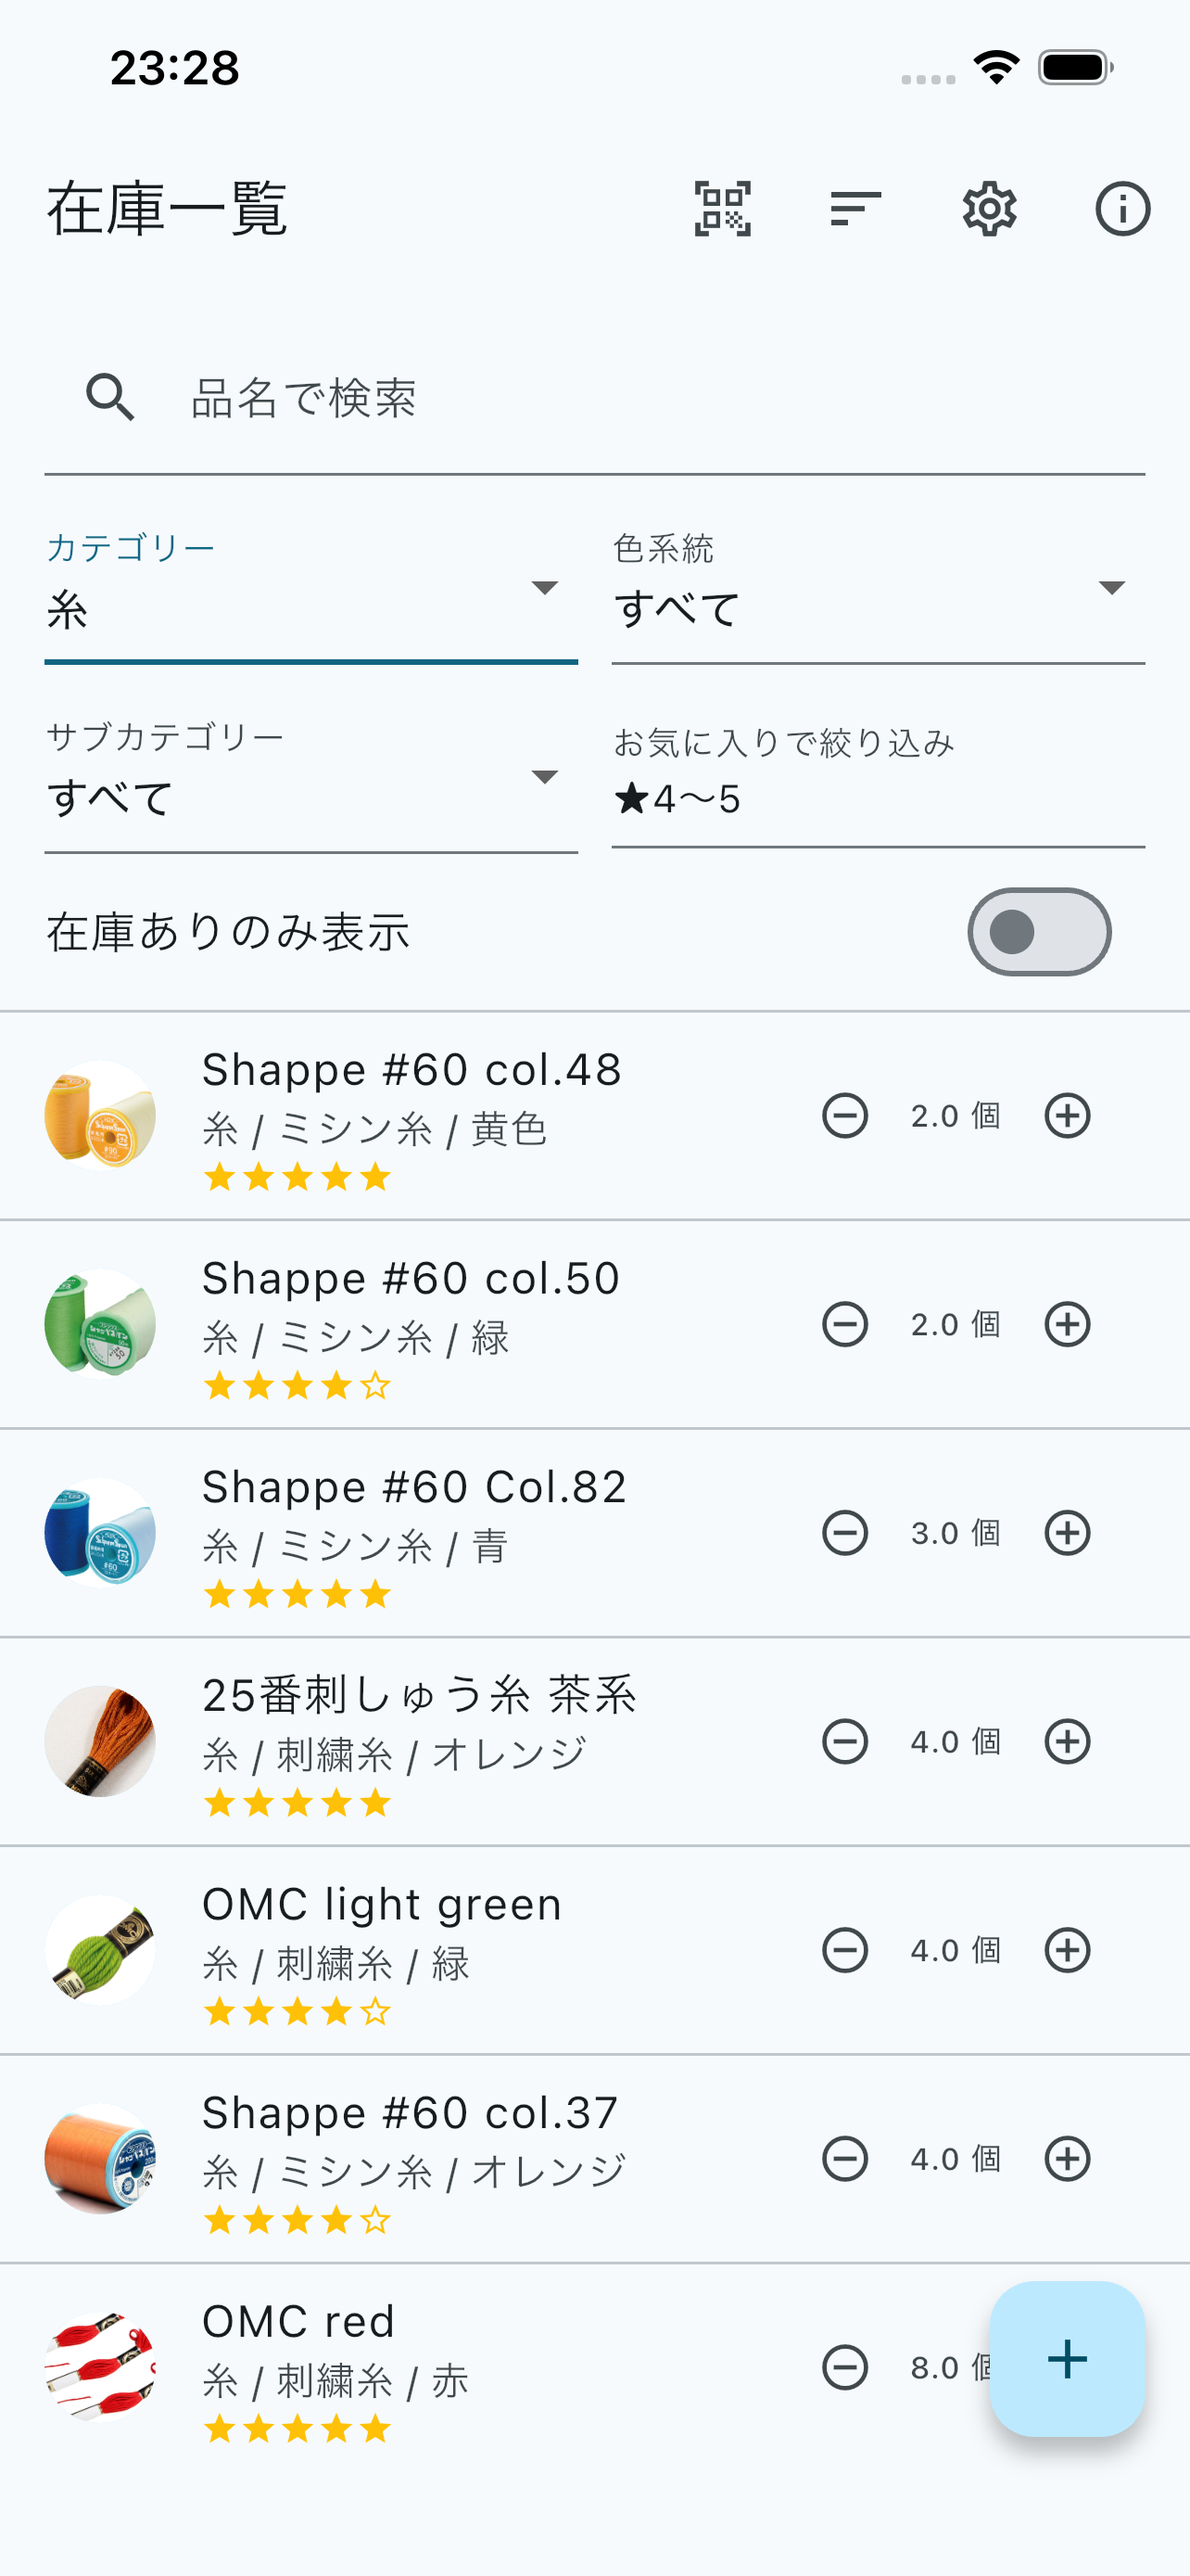
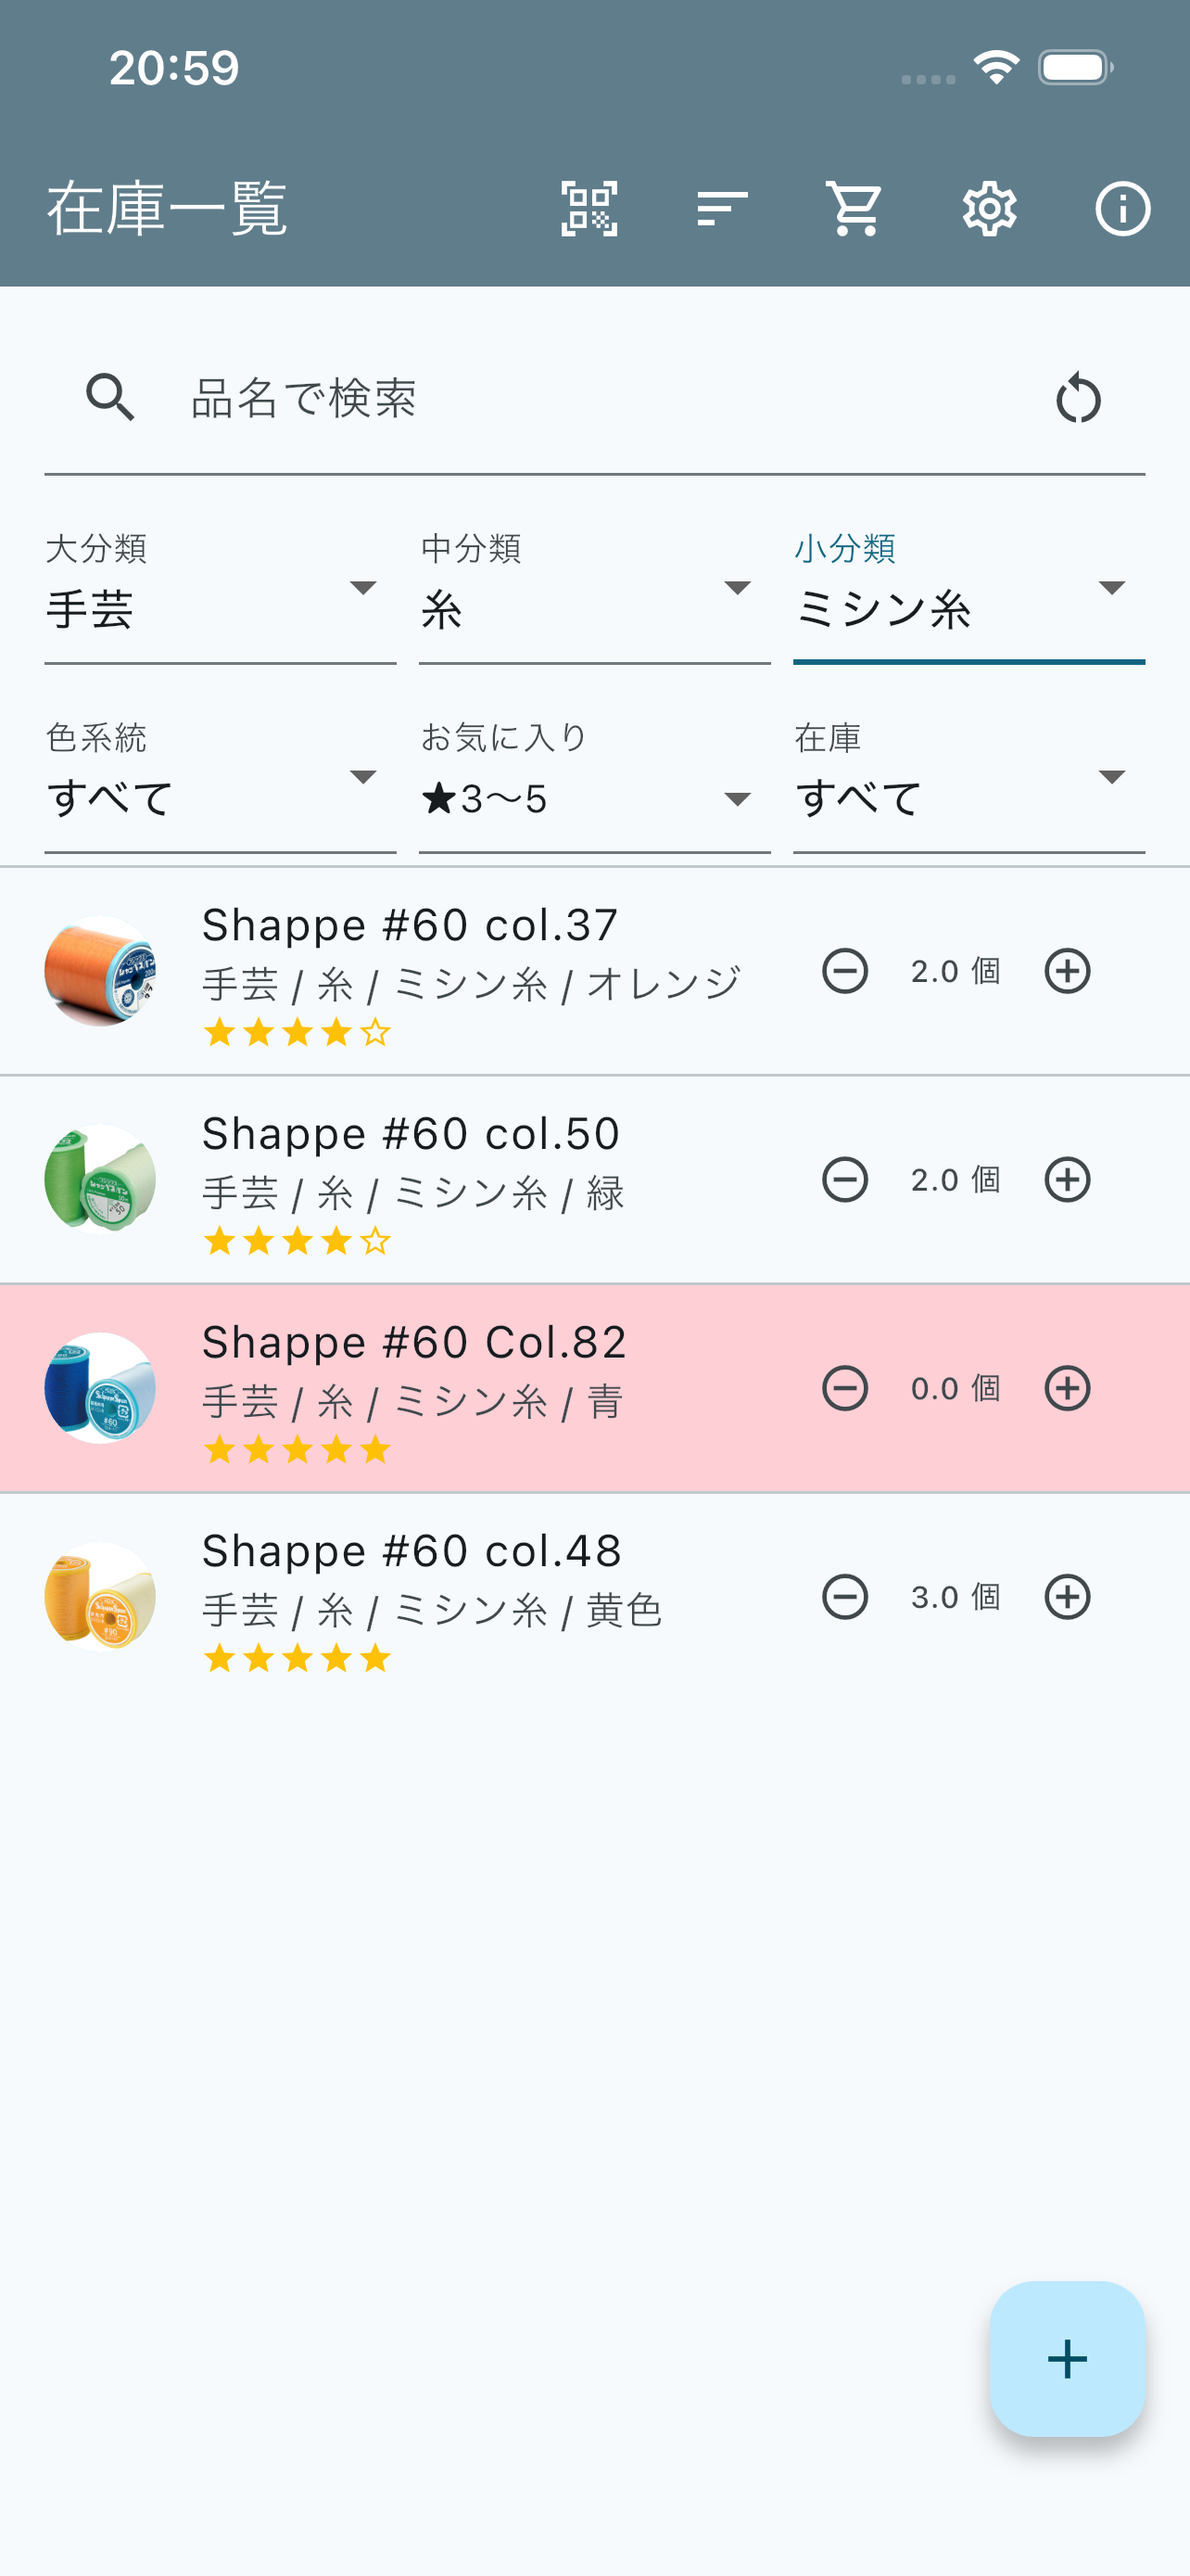
「買い物リストの任意のアイテムを左にスライドした際のアイコンを「削除」から「除外」に変更、SS更新

diff --git a/lib/features/inventory/presentation/screens/item_list_screen.dart b/lib/features/inventory/presentation/screens/item_list_screen.dart
@@ -356,18 +356,22 @@ class _ItemListScreenState extends ConsumerState<ItemListScreen> {
           const Divider(height: 1),
           Expanded(
             child: ClipRect(
-              child: itemsAsync.when(
-                data: (items) => items.isEmpty
-                    ? Center(child: Text(l10n.noMatchingItems))
-                    : ListView.separated(
-                        itemCount: items.length,
-                        separatorBuilder: (_, _) => const Divider(height: 1),
-                        itemBuilder: (context, index) =>
-                            _ItemTile(item: items[index]),
-                      ),
-                loading: () => const Center(child: CircularProgressIndicator()),
-                error: (error, stack) => Center(
-                  child: Text(l10n.errorWithMessage(error.toString())),
+              child: Material(
+                color: Colors.transparent,
+                child: itemsAsync.when(
+                  data: (items) => items.isEmpty
+                      ? Center(child: Text(l10n.noMatchingItems))
+                      : ListView.separated(
+                          itemCount: items.length,
+                          separatorBuilder: (_, _) => const Divider(height: 1),
+                          itemBuilder: (context, index) =>
+                              _ItemTile(item: items[index]),
+                        ),
+                  loading: () =>
+                      const Center(child: CircularProgressIndicator()),
+                  error: (error, stack) => Center(
+                    child: Text(l10n.errorWithMessage(error.toString())),
+                  ),
                 ),
               ),
             ),
@@ -447,16 +451,25 @@ class _ItemTile extends ConsumerWidget {
         motion: const DrawerMotion(),
         extentRatio: 0.5,
         children: [
-          SlidableAction(
-            onPressed: isInShoppingList
-                ? null
-                : (_) =>
-                      ref.read(shoppingListRepositoryProvider).addItem(item.id),
-            backgroundColor: isInShoppingList ? Colors.grey : Colors.blue,
-            foregroundColor: Colors.white,
-            icon: Icons.add_shopping_cart,
-            label: l10n.addToShoppingListLabel,
-          ),
+          if (isInShoppingList)
+            SlidableAction(
+              onPressed: (_) => ref
+                  .read(shoppingListRepositoryProvider)
+                  .removeItemByItemId(item.id),
+              backgroundColor: Colors.grey,
+              foregroundColor: Colors.white,
+              icon: Icons.remove_shopping_cart,
+              label: l10n.removeFromShoppingListLabel,
+            )
+          else
+            SlidableAction(
+              onPressed: (_) =>
+                  ref.read(shoppingListRepositoryProvider).addItem(item.id),
+              backgroundColor: Colors.blue,
+              foregroundColor: Colors.white,
+              icon: Icons.add_shopping_cart,
+              label: l10n.addToShoppingListLabel,
+            ),
           SlidableAction(
             onPressed: (_) => _confirmAndDeleteItem(context, ref, item),
             backgroundColor: Colors.red,
@@ -466,81 +479,81 @@ class _ItemTile extends ConsumerWidget {
           ),
         ],
       ),
-      child: Container(
-        color: isLowStock ? const Color(0xFFFFCFD6) : null,
-        child: ListTile(
-          leading: hasImage
-              ? CircleAvatar(backgroundImage: FileImage(imageFile))
-              : CircleAvatar(
-                  backgroundColor: swatchColor ?? Colors.grey.shade300,
-                  child: swatchColor == null
-                      ? Text(item.category.name.characters.first)
-                      : null,
-                ),
-          title: Text(item.name, maxLines: 1, overflow: TextOverflow.ellipsis),
-          subtitle: Column(
-            crossAxisAlignment: CrossAxisAlignment.start,
-            mainAxisSize: MainAxisSize.min,
-            children: [
-              Text(
-                subtitleParts.join(' / '),
+      child: ListTile(
+        tileColor: isLowStock ? const Color(0xFFFFCFD6) : null,
+        leading: hasImage
+            ? CircleAvatar(backgroundImage: FileImage(imageFile))
+            : CircleAvatar(
+                backgroundColor: swatchColor ?? Colors.grey.shade300,
+                child: swatchColor == null
+                    ? Text(item.category.name.characters.first)
+                    : null,
+              ),
+        title: Text(item.name, maxLines: 1, overflow: TextOverflow.ellipsis),
+        subtitle: Column(
+          crossAxisAlignment: CrossAxisAlignment.start,
+          mainAxisSize: MainAxisSize.min,
+          children: [
+            Text(
+              subtitleParts.join(' / '),
+              maxLines: 1,
+              overflow: TextOverflow.ellipsis,
+            ),
+            if (item.favoriteRating > 0)
+              FavoriteStarsDisplay(rating: item.favoriteRating, size: 14),
+          ],
+        ),
+        trailing: Row(
+          mainAxisSize: MainAxisSize.min,
+          children: [
+            IconButton(
+              icon: const Icon(Icons.remove_circle_outline),
+              iconSize: 20,
+              visualDensity: VisualDensity.compact,
+              padding: EdgeInsets.zero,
+              constraints: const BoxConstraints(minWidth: 32, minHeight: 32),
+              onPressed: () => ref
+                  .read(itemRepositoryProvider)
+                  .adjustQuantity(
+                    item.id,
+                    -1,
+                    reason: l10n.manualAdjustmentReason,
+                  ),
+            ),
+            SizedBox(
+              width: 40,
+              child: Text(
+                '${item.quantity} ${item.unit.name}',
+                textAlign: TextAlign.center,
                 maxLines: 1,
                 overflow: TextOverflow.ellipsis,
               ),
-              if (item.favoriteRating > 0)
-                FavoriteStarsDisplay(rating: item.favoriteRating, size: 14),
-            ],
-          ),
-          trailing: Row(
-            mainAxisSize: MainAxisSize.min,
-            children: [
-              IconButton(
-                icon: const Icon(Icons.remove_circle_outline),
-                iconSize: 20,
-                visualDensity: VisualDensity.compact,
-                padding: EdgeInsets.zero,
-                constraints: const BoxConstraints(minWidth: 32, minHeight: 32),
-                onPressed: () => ref
-                    .read(itemRepositoryProvider)
-                    .adjustQuantity(
-                      item.id,
-                      -1,
-                      reason: l10n.manualAdjustmentReason,
-                    ),
-              ),
-              SizedBox(
-                width: 40,
-                child: Text(
-                  '${item.quantity} ${item.unit.name}',
-                  textAlign: TextAlign.center,
-                  maxLines: 1,
-                  overflow: TextOverflow.ellipsis,
-                ),
-              ),
-              IconButton(
-                icon: const Icon(Icons.add_circle_outline),
-                iconSize: 20,
-                visualDensity: VisualDensity.compact,
-                padding: EdgeInsets.zero,
-                constraints: const BoxConstraints(minWidth: 32, minHeight: 32),
-                onPressed: () => ref
-                    .read(itemRepositoryProvider)
-                    .adjustQuantity(
-                      item.id,
-                      1,
-                      reason: l10n.manualAdjustmentReason,
-                    ),
-              ),
-            ],
-          ),
-          onTap: () => Navigator.push(
-            context,
-            MaterialPageRoute(
-              builder: (context) => ItemFormScreen(initialItem: item),
             ),
+            IconButton(
+              icon: const Icon(Icons.add_circle_outline),
+              iconSize: 20,
+              visualDensity: VisualDensity.compact,
+              padding: EdgeInsets.zero,
+              constraints: const BoxConstraints(minWidth: 32, minHeight: 32),
+              onPressed: () => ref
+                  .read(itemRepositoryProvider)
+                  .adjustQuantity(
+                    item.id,
+                    1,
+                    reason: l10n.manualAdjustmentReason,
+                  ),
+            ),
+          ],
+        ),
+        onTap: () => Navigator.push(
+          context,
+          MaterialPageRoute(
+            builder: (context) => ItemFormScreen(initialItem: item),
           ),
         ),
       ),
     );
   }
 }
+
+

diff --git a/lib/features/inventory/domain/repositories/shopping_list_repository.dart b/lib/features/inventory/domain/repositories/shopping_list_repository.dart
@@ -8,6 +8,10 @@ abstract class ShoppingListRepository {
 
   Future<void> removeEntry(int entryId);
 
+  /// アイテムIDを指定して買い物リストから除外する。
+  /// 購入数がセットされていても在庫には反映しない。
+  Future<void> removeItemByItemId(int itemId);
+
   Future<void> setPurchaseQuantity(int entryId, double quantity);
 
   /// 該当エントリの購入数をアイテムの在庫数に反映し、買い物リストから削除する。

diff --git a/lib/features/inventory/data/repositories/shopping_list_repository_impl.dart b/lib/features/inventory/data/repositories/shopping_list_repository_impl.dart
@@ -65,6 +65,13 @@ class ShoppingListRepositoryImpl implements ShoppingListRepository {
   }
 
   @override
+  Future<void> removeItemByItemId(int itemId) {
+    return (_db.delete(
+      _db.shoppingListEntries,
+    )..where((t) => t.itemId.equals(itemId))).go();
+  }
+
+  @override
   Future<void> setPurchaseQuantity(int entryId, double quantity) {
     final clampedQuantity = quantity < 0 ? 0.0 : quantity;
     return (_db.update(

diff --git a/lib/features/inventory/presentation/screens/shopping_list_screen.dart b/lib/features/inventory/presentation/screens/shopping_list_screen.dart
@@ -151,8 +151,8 @@ class _ShoppingListTile extends ConsumerWidget {
                 ref.read(shoppingListRepositoryProvider).removeEntry(entry.id),
             backgroundColor: Colors.red,
             foregroundColor: Colors.white,
-            icon: Icons.delete,
-            label: l10n.delete,
+            icon: Icons.remove_shopping_cart,
+            label: l10n.removeFromShoppingListLabel,
           ),
         ],
       ),

diff --git a/lib/l10n/app_localizations.dart b/lib/l10n/app_localizations.dart
@@ -277,6 +277,12 @@ abstract class L10n {
   /// **'買い物リストに追加済みです'**
   String get alreadyInShoppingListTooltip;
 
+  /// No description provided for @removeFromShoppingListLabel.
+  ///
+  /// In ja, this message translates to:
+  /// **'除外'**
+  String get removeFromShoppingListLabel;
+
   /// No description provided for @searchByNameLabel.
   ///
   /// In ja, this message translates to:

diff --git a/lib/l10n/app_localizations_ja.dart b/lib/l10n/app_localizations_ja.dart
@@ -107,6 +107,9 @@ class L10nJa extends L10n {
   String get alreadyInShoppingListTooltip => '買い物リストに追加済みです';
 
   @override
+  String get removeFromShoppingListLabel => '除外';
+
+  @override
   String get searchByNameLabel => '品名で検索';
 
   @override

diff --git a/lib/l10n/app_localizations_en.dart b/lib/l10n/app_localizations_en.dart
@@ -107,6 +107,9 @@ class L10nEn extends L10n {
   String get alreadyInShoppingListTooltip => 'Already in the shopping list';
 
   @override
+  String get removeFromShoppingListLabel => 'Remove';
+
+  @override
   String get searchByNameLabel => 'Search by name';
 
   @override
